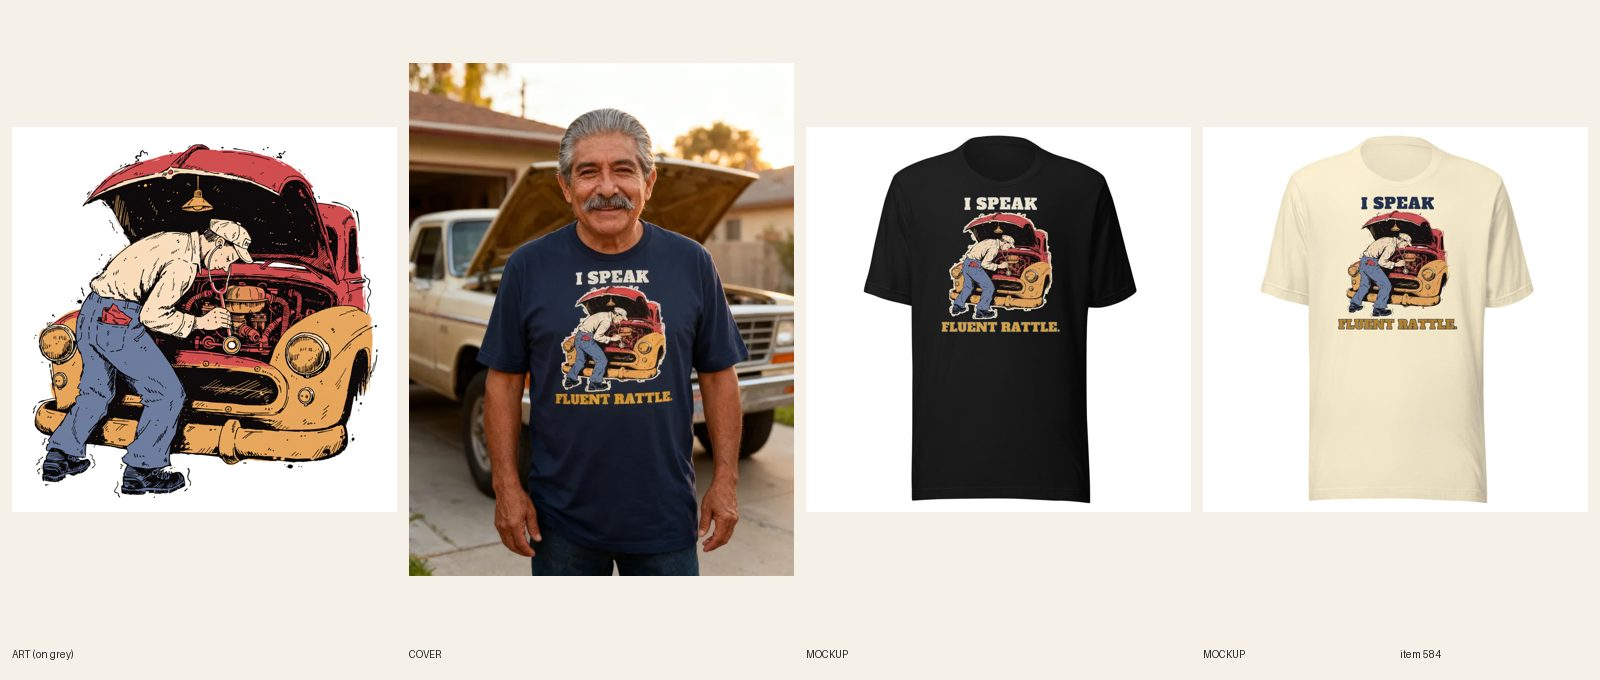
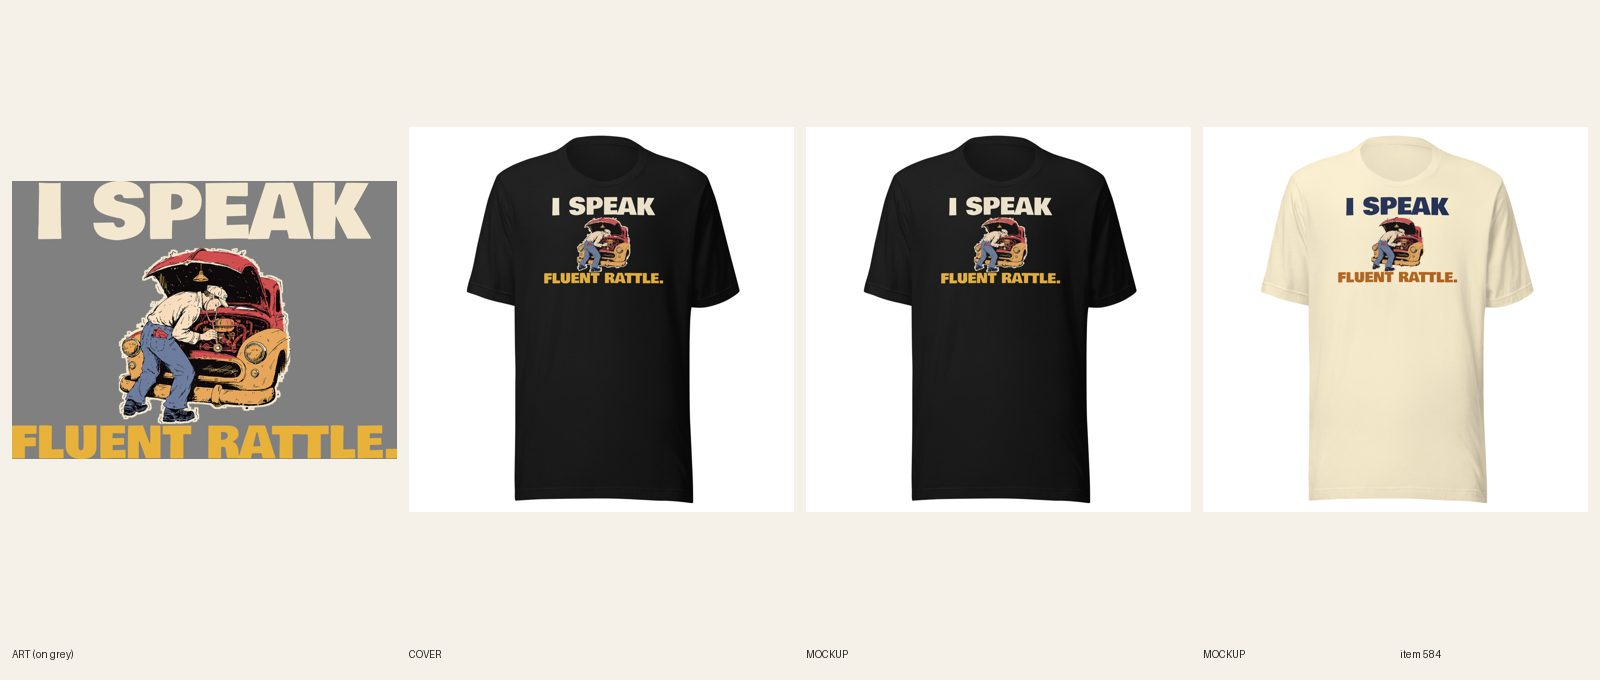
[B] review 584 Car Guy tee redo (type)

Changed region(s): [[0.0, 0.0926, 0.5, 0.8647], [0.8125, 0.2779, 0.9062, 0.4941], [0.5938, 0.2779, 0.6562, 0.4941]]

diff --git a/docs/pipeline/584-car-guy-tee-fluent-in-rattle.md b/docs/pipeline/584-car-guy-tee-fluent-in-rattle.md
@@ -1,4 +1,4 @@
-status: BUILDING [B] 2026-10-20 12:27 UTC
+status: REVIEW
 lane: B
 type: new
 id: 584
@@ -33,3 +33,4 @@ shopify: gid://shopify/Product/15364733272368
 - [B] 2026-10-18 builder: sync DONE, R7.7 default-file check on Printful: 70/70 synced; default file 49 on 1088709857 and 21 on 1088709846 (dark/light ink), back logo on all. Variant-photo audit clean. Status REVIEW.
 - 2026-10-18 08:19 UTC director: LIVE. Sheet reviewed (R3, R4/R5, R6, R8, R13.3); copy fix: line one "One of the car guy gifts" (R8.3) rewritten; FAQs de-stuffed of the product name, short fit FAQ merged. ACTIVE + Online Store, Headless, Google & YouTube; cohesion-audit --handle PASS 0 warn.
 - 2026-10-18 17:22 UTC director: QUALITY RESET grade B (type only), REDO. The product stays ACTIVE (same handle, URL, title keyword). Keep the line "I Speak / Fluent Rattle." and the art. 1. Type: Art panel has no type; mockup headline ~45% art width, both lines small bars above/below art. 2. Quality reset type bar (docs/backlog/quality-reset.md, 'The new bar'): headline at least 90% of the art width, heavy, colors pulled from the art; second line at least 45% of the headline's height, never a thin script on a dark or mid garment; use the lettering as a shape (arch, stacked lockup, words breaking into the art), not a plain bar above and a script line below; no font used on more than 1 in 6 of the last 30 designs. 3. New print file means a new cover per R6.10 and a fresh review sheet (R7.7). While quality-reset.md says PAUSED, only lane A builds, and only the samples step 2 names.
+- 2026-10-20 13:00 UTC builder [B]: REDO 584 (B grade, type only) done in place (stays ACTIVE; line and art kept; title unchanged; line-one rewritten without the 'Of all the car guy gifts' superlative, lettering sentence updated). New lockup in Bowlby One: I SPEAK above at 3059 px wide, FLUENT RATTLE. below at 3559 px (punch 116% of the headline's width, the punch is the smaller-height line; headline above, punch below per 7k); type about 33% of the print height with the art at 44%. Dark file (cream + mustard, cream edge on the art) for Black, Navy, Dark Grey Heather, Heather Forest, Military Green, Brown, Maroon; dark-ink file (navy + burnt orange) for Natural, Ash, Athletic Heather (light file logged). FW 1650 TOP 75. Verified 70/70 on the two new files (no old ids), back logo kept. 10 fronts replaced in place with new alt. Phone-size read OK. Cover: AI cover shows old type; handle added to retired-covers.json. Sheet docs/review/584.jpg. fal $0.

diff --git a/docs/intake-log.md b/docs/intake-log.md
@@ -1,5 +1,7 @@
 2026-10-20 12:49 UTC — [H] Helper run: Telegram inbox empty (getUpdates returned 0 updates; nothing to consume). Audit 610 live products: 0 errors, 37 warnings left alone; committed docs/cohesion-audit.md and .json. Category check: 0 products without a Shopify category. Site check: womens-chihuahua-cold-since-birth-zip-hoodie, mens-pig-wallowing-respectfully-oversized-hoodie, womens-panda-endangered-patience-zip-hoodie and homepage all 200. Stuck-work: nothing BUILDING over 3h (5 items, newest commits 12:07–12:42). Lane A RUNNING line from 02:28 UTC still present (lines 201 and 207) but lane A committed at 12:41, so active; no repeat alert. Daily summary sent to Sam (first run after 12:00 UTC): 610 live, REVIEW 116, READY 50, REDO 17, PARKED 31, BUILDING 5, 12 items waiting on Sam. Note: origin/main was force-updated from 5615ff1 to 5479c90 when I fetched, so the [D] take lock commit was off main; the lock line was re-added below. Lock released.
 2026-10-20 12:54 UTC — [C] Builder run: redid #509 national park zip hoodie round 4 (blue sky scrap deleted, coral heart floats alone, 12/12 relinked on files 1090360413/1090360461). REVIEW. fal $0.
+2026-10-20 13:00 UTC — [B] Builder run: redid #584 Men's Car Guy tee (type only: I SPEAK / FLUENT RATTLE. in Bowlby One, punch wider than the headline, same garage art, 70/70 synced). REVIEW. fal $0.
+RUNNING lane C since 2026-10-20 12:42 UTC
 2026-10-20 12:42 UTC — [C] Builder run: built #711 Men's Gym Rack Your Weights. Respectfully. sweatpants (new blank, Printful 412 front left leg, 3 lines turned 90 deg, hoodie art crop at the hip, Carbon Grey + White, $44.99, 12/12 synced on file 1090356235, plain product shots). REVIEW. fal $0. Lock released.
 RUNNING lane E since 2026-10-20 13:15 UTC
 2026-10-20 12:52 UTC — [A] Builder run: built #619 Women's Christmas Santa Gets All the Credit crewneck (twin of live #618: Sand takes the tee print, Navy own cream/pink file, DRAFT 15369722167600, sync 483379509 12/12, mockups + variant images, plain product shot). REVIEW, stays DRAFT. fal $0.
